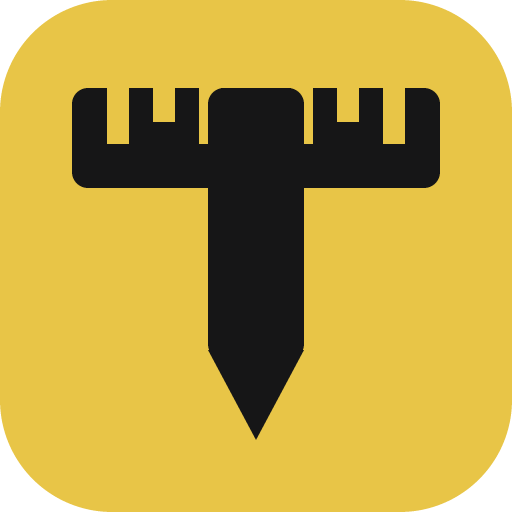
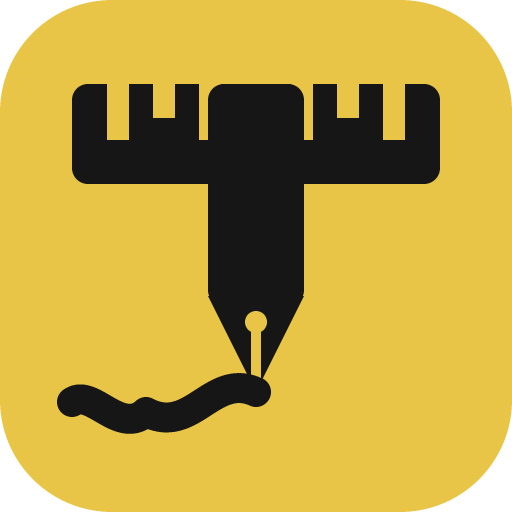
feat(brand): the ruler-T pen — the stem is a nib, a signature finishes at it
Replaces the pin: the T's stem is now a fountain pen, nib down, and a
signature stroke arrives from the left (the way a hand writes) and ends at
the tip — measure it, then sign the bid. The ruler crossbar stays.

- scripts/make-icons.py: the pen barrel, nib, slit + breather hole, and the
  signature (a cubic path rasterized as a round-capped stroke) from one
  definition. The nib detail is drawn only at 64 px and up: icon.svg and the
  192/512/180 icons carry it; favicon.svg, the ICO sizes and the header mark
  use the plain nib, where a slit would only thin the stem.
- index.html: the inline header mark is the plain-nib favicon.svg.
- sw.js: CACHE_VERSION v3 -> v4. docs/ARCHITECTURE updated.

diff --git a/index.html b/index.html
@@ -7,7 +7,7 @@
   <meta name="theme-color" content="#0f0f11">
   <!-- Installable, and able to survive a reload with no signal (sw.js) -->
   <link rel="manifest" href="manifest.webmanifest">
-  <!-- The mark (scripts/make-icons.py draws every file from one definition):
+  <!-- The mark, the ruler-T pen (scripts/make-icons.py draws every file from one definition):
        the ICO answers the browser's own /favicon.ico probe and serves Safari,
        the SVG serves everything else, and the 180 is the iOS home-screen tile. -->
   <link rel="icon" href="favicon.ico" sizes="32x32">
@@ -22,7 +22,7 @@
   <div id="app">
     <div id="twin-banner" class="twin-banner" role="status" hidden></div>
     <header>
-      <h1 id="app-title" class="app-title-clickable" title="Click to return to manifest"><svg class="app-mark" aria-hidden="true" xmlns="http://www.w3.org/2000/svg" viewBox="0 0 512 512"><rect width="512" height="512" rx="112" fill="#e8c547"/><rect x="72" y="88" width="368" height="100" rx="16" fill="#161617"/><rect x="107" y="88" width="22" height="56" fill="#e8c547"/><rect x="153" y="88" width="22" height="34" fill="#e8c547"/><rect x="199" y="88" width="22" height="56" fill="#e8c547"/><rect x="291" y="88" width="22" height="56" fill="#e8c547"/><rect x="337" y="88" width="22" height="34" fill="#e8c547"/><rect x="383" y="88" width="22" height="56" fill="#e8c547"/><rect x="208" y="88" width="96" height="272" rx="16" fill="#161617"/><path d="M208 350 H304 L256 440 Z" fill="#161617"/></svg><span>Takeoff Tooling</span></h1>
+      <h1 id="app-title" class="app-title-clickable" title="Click to return to manifest"><svg class="app-mark" aria-hidden="true" xmlns="http://www.w3.org/2000/svg" viewBox="0 0 512 512"><rect width="512" height="512" rx="112" fill="#e8c547"/><rect x="72" y="84" width="368" height="100" rx="16" fill="#161617"/><rect x="107" y="84" width="22" height="56" fill="#e8c547"/><rect x="153" y="84" width="22" height="34" fill="#e8c547"/><rect x="199" y="84" width="22" height="56" fill="#e8c547"/><rect x="291" y="84" width="22" height="56" fill="#e8c547"/><rect x="337" y="84" width="22" height="34" fill="#e8c547"/><rect x="383" y="84" width="22" height="56" fill="#e8c547"/><rect x="208" y="84" width="96" height="222" rx="16" fill="#161617"/><path d="M208 296 H304 L256 392 Z" fill="#161617"/><path d="M72 402 C92 388 120 436 146 412 C192 436 212 372 256 392" fill="none" stroke="#161617" stroke-width="30" stroke-linecap="round" stroke-linejoin="round"/></svg><span>Takeoff Tooling</span></h1>
       <div class="project-switch-wrap">
         <button type="button" id="project-switch-btn" class="project-switch-btn" aria-haspopup="true" aria-expanded="false" title="Switch project"><span class="project-switch-label"><span class="project-switch-title"><span id="project-switch-name">Untitled project</span><span id="project-switch-chip" class="project-chip" hidden></span></span><span id="project-switch-saved" class="project-switch-saved"></span></span><span class="project-switch-caret">&#9662;</span></button>
         <div id="project-menu" class="project-menu" aria-hidden="true"></div>

diff --git a/sw.js b/sw.js
@@ -26,7 +26,7 @@
  * returning visitors keep the old copy until their next network-first hit.
  */
 
-const CACHE_VERSION = 'v3';
+const CACHE_VERSION = 'v4';
 const SHELL_CACHE = `takeoff-shell-${CACHE_VERSION}`;
 const DATA_CACHE = `takeoff-data-${CACHE_VERSION}`;
 

diff --git a/scripts/make-icons.py b/scripts/make-icons.py
@@ -6,14 +6,20 @@ does. Re-run after changing the mark or the palette:
 
     python3 scripts/make-icons.py
 
-The mark is the "ruler-T pin": a T whose crossbar is a ruler (long/short
-inch ticks notched into its top edge) and whose stem ends in a pin point —
-measure, then mark the spot on the plan. Dark on the brand yellow tile,
-the same tile CountTooling's mark sits on, so the two read as siblings.
+The mark is the "ruler-T pen": a T whose crossbar is a ruler (long/short
+inch ticks notched into its top edge) and whose stem is a pen, nib down, with
+a signature stroke arriving from the left and finishing at the nib — measure
+it, then sign the bid. Dark on the brand yellow tile, the same tile
+CountTooling's mark sits on, so the two read as siblings.
+
+The nib's slit and breather hole are drawn only at 64 px and up (the app
+icons, the touch icon, icon.svg): below that they can't resolve and would
+only thin the stem, so the favicon sizes and favicon.svg carry the plain nib.
 
 Outputs (paths relative to the repo root):
-    icons/icon.svg              canonical vector (rounded tile, transparent corners)
-    icons/favicon.svg           the same, served as the SVG tab icon
+    icons/icon.svg              canonical vector, nib detail on (rounded tile)
+    icons/favicon.svg           the small-size vector, plain nib — the SVG tab icon
+                                and the source of index.html's inline header mark
     favicon.ico                 16/32/48 PNG-in-ICO (Safari + the browser's own
                                 /favicon.ico probe)
     icons/icon-192.png          rounded tile, transparent corners   (manifest "any")
@@ -27,6 +33,7 @@ the same numbers the SVG is written from, so the PNGs and the SVG can't drift.
 """
 import math
 import os
+import re
 import struct
 import zlib
 
@@ -38,16 +45,23 @@ ICONS = os.path.join(ROOT, 'icons')
 
 # --- the mark, in 512-unit canvas coordinates ------------------------------
 TILE_RX = 112
-BAR = (72, 88, 368, 100, 16)          # x, y, w, h, rx  — the ruler crossbar
-STEM = (208, 88, 96, 272, 16)         # x, y, w, h, rx  — the stem, down to the pin's shoulder
-PIN = ((208, 350), (304, 350), (256, 440))  # the point: shoulder-left, shoulder-right, tip
+BAR = (72, 84, 368, 100, 16)          # x, y, w, h, rx  — the ruler crossbar
 TICK_W = 22
 TICKS = ((118, 56), (164, 34), (210, 56), (302, 56), (348, 34), (394, 56))  # (x-center, depth) long/short
+STEM = (208, 84, 96, 222, 16)         # x, y, w, h, rx  — the pen barrel, down past the nib's shoulder
+NIB = ((208, 296), (304, 296), (256, 392))  # shoulder-left, shoulder-right, tip
+SLIT = ((256, 384), (256, 322), 10)   # the nib's slit: from near the tip up to the breather hole; width
+BREATHER = (256, 322, 11)             # cx, cy, r
+DETAIL_MIN_PX = 64                    # slit + breather only at this size and up
+# The signature: a cubic path ending exactly at the nib tip. Written left to
+# right the way a hand moves, so the pen sits at the end of the stroke.
+SIG = 'M72 402 C92 388 120 436 146 412 C192 436 212 372 256 392'
+SIG_W = 30
 
 
-def svg_text(bleed=False):
+def svg_text(bleed=False, detail=True):
     """The mark as SVG. bleed=True fills the whole square (maskable / apple-touch)."""
-    tile = (f'<rect width="512" height="512" fill="#e8c547"/>' if bleed
+    tile = ('<rect width="512" height="512" fill="#e8c547"/>' if bleed
             else f'<rect width="512" height="512" rx="{TILE_RX}" fill="#e8c547"/>')
     x, y, w, h, rx = BAR
     bar = f'<rect x="{x}" y="{y}" width="{w}" height="{h}" rx="{rx}" fill="#161617"/>'
@@ -55,10 +69,18 @@ def svg_text(bleed=False):
                     for cx, d in TICKS)
     x, y, w, h, rx = STEM
     stem = f'<rect x="{x}" y="{y}" width="{w}" height="{h}" rx="{rx}" fill="#161617"/>'
-    (ax, ay), (bx, by), (cx, cy) = PIN
-    pin = f'<path d="M{ax} {ay} H{bx} L{cx} {cy} Z" fill="#161617"/>'
+    (ax, ay), (bx, by), (cx, cy) = NIB
+    nib = f'<path d="M{ax} {ay} H{bx} L{cx} {cy} Z" fill="#161617"/>'
+    slit = ''
+    if detail:
+        (sx0, sy0), (sx1, sy1), sw = SLIT
+        hx, hy, hr = BREATHER
+        slit = (f'<line x1="{sx0}" y1="{sy0}" x2="{sx1}" y2="{sy1}" stroke="#e8c547" stroke-width="{sw}" stroke-linecap="round"/>'
+                f'<circle cx="{hx}" cy="{hy}" r="{hr}" fill="#e8c547"/>')
+    sig = (f'<path d="{SIG}" fill="none" stroke="#161617" stroke-width="{SIG_W}" '
+           f'stroke-linecap="round" stroke-linejoin="round"/>')
     return (f'<svg xmlns="http://www.w3.org/2000/svg" viewBox="0 0 512 512">'
-            f'{tile}{bar}{ticks}{stem}{pin}</svg>\n')
+            f'{tile}{bar}{ticks}{stem}{nib}{slit}{sig}</svg>\n')
 
 
 # --- rasterizer: per-row class intervals on a 4x supersampled grid ----------
@@ -82,11 +104,66 @@ def rrect_span(rect, yc):
 
 
 def tri_span(yc):
-    (ax, ay), (bx, by), (cx, cy) = PIN
+    (ax, ay), (bx, by), (cx, cy) = NIB
     if yc < ay or yc > cy:
         return None
     t = (yc - ay) / (cy - ay)
     return (ax + (cx - ax) * t, bx + (cx - bx) * t)
+
+
+def cubic_points(d, n=48):
+    """Sample an SVG path made of M + C segments into a dense polyline."""
+    tokens = re.sub(r'([MC])', r' \1 ', d.replace(',', ' ')).split()
+    pts, i, cur = [], 0, None
+    while i < len(tokens):
+        cmd = tokens[i]
+        if cmd == 'M':
+            cur = (float(tokens[i + 1]), float(tokens[i + 2]))
+            pts.append(cur)
+            i += 3
+        elif cmd == 'C':
+            p1 = (float(tokens[i + 1]), float(tokens[i + 2]))
+            p2 = (float(tokens[i + 3]), float(tokens[i + 4]))
+            p3 = (float(tokens[i + 5]), float(tokens[i + 6]))
+            p0 = cur
+            for k in range(1, n + 1):
+                t = k / n
+                u = 1 - t
+                pts.append((u * u * u * p0[0] + 3 * u * u * t * p1[0] + 3 * u * t * t * p2[0] + t * t * t * p3[0],
+                            u * u * u * p0[1] + 3 * u * u * t * p1[1] + 3 * u * t * t * p2[1] + t * t * t * p3[1]))
+            cur = p3
+            i += 7
+        else:
+            raise ValueError('unsupported path command ' + cmd)
+    return pts
+
+
+def stroke_discs(points, width, step=2.0):
+    """A round-capped stroke as a union of discs: densify the polyline so
+    consecutive discs overlap, then return [(cx, cy, r), ...]."""
+    r = width / 2
+    out = []
+    for (x0, y0), (x1, y1) in zip(points, points[1:]):
+        dist = math.hypot(x1 - x0, y1 - y0)
+        n = max(1, int(dist / step))
+        for k in range(n):
+            t = k / n
+            out.append((x0 + (x1 - x0) * t, y0 + (y1 - y0) * t, r))
+    x, y = points[-1]
+    out.append((x, y, r))
+    return out
+
+
+SIG_DISCS = stroke_discs(cubic_points(SIG), SIG_W)
+SLIT_DISCS = stroke_discs([SLIT[0], SLIT[1]], SLIT[2]) + [BREATHER]
+
+
+def disc_spans(discs, yc):
+    for cx, cy, r in discs:
+        dy = yc - cy
+        if -r < dy < r:
+            half = math.sqrt(r * r - dy * dy)
+            yield (cx - half, cx + half)
 
 
 def paint(row, span, k, value):
@@ -102,6 +179,7 @@ def render(size, bleed):
     """Return rows of (r, g, b, a) for a `size` px icon."""
     n = size * SS
     k = n / 512.0
+    detail = size >= DETAIL_MIN_PX
     # class per sample: 0 = outside the tile, 1 = yellow tile, 2 = dark ink
     sub_rows = []
     for sy in range(n):
@@ -112,12 +190,17 @@ def render(size, bleed):
         else:
             paint(row, rrect_span((0, 0, 512, 512, TILE_RX), yc), k, 1)
         paint(row, rrect_span(BAR, yc), k, 2)
-        bx, by, bw, bh, _ = BAR
+        by = BAR[1]
         for cx, d in TICKS:
             if by <= yc < by + d:
                 paint(row, (cx - TICK_W / 2, cx + TICK_W / 2), k, 1)
         paint(row, rrect_span(STEM, yc), k, 2)
         paint(row, tri_span(yc), k, 2)
+        if detail:
+            for span in disc_spans(SLIT_DISCS, yc):
+                paint(row, span, k, 1)
+        for span in disc_spans(SIG_DISCS, yc):
+            paint(row, span, k, 2)
         sub_rows.append(row)
 
     total = SS * SS
@@ -182,8 +265,8 @@ def write(rel, data):
 
 if __name__ == '__main__':
     os.makedirs(ICONS, exist_ok=True)
-    write('icons/icon.svg', svg_text().encode())
-    write('icons/favicon.svg', svg_text().encode())
+    write('icons/icon.svg', svg_text(detail=True).encode())
+    write('icons/favicon.svg', svg_text(detail=False).encode())
     write('icons/icon-192.png', png_bytes(render(192, bleed=False), opaque=False))
     write('icons/icon-512.png', png_bytes(render(512, bleed=False), opaque=False))
     write('icons/maskable-512.png', png_bytes(render(512, bleed=True), opaque=True))

diff --git a/docs/ARCHITECTURE.md b/docs/ARCHITECTURE.md
@@ -50,7 +50,7 @@ Three files sit outside that load order, at the repo root so GitHub Pages serves
 |---|---|
 | `sw.js` | App-shell service worker. Precaches `index.html`, `css/styles.css` and every same-origin `js/` file — **read out of index.html at install time**, not listed twice, so a new `<script>` tag needs no edit here. Navigations and shell assets are network-first with the cache as the offline fallback; the six `mc-assemblies/*.json` the app fetches are cache-first with a background refresh (12 MB together, so they land on first use rather than at install). Anything cross-origin (Supabase, jsDelivr/cdnjs, Google Fonts) is never intercepted and never cached |
 | `manifest.webmanifest` | Web app manifest — `short_name` "Takeoff", `start_url` ".", `display: standalone`, colours from the `css/styles.css` palette (`--bg` `#0f0f11`), icons from `icons/` |
-| `icons/` + `favicon.ico` | The mark: `icon.svg` / `favicon.svg`, the 192/512 tiles, `maskable-512.png`, `apple-touch-180.png`, and the root `favicon.ico`. All generated by `python3 scripts/make-icons.py` (pure stdlib, no Pillow) from one definition; the header's inline `.app-mark` is a copy of `icon.svg`. Re-run after changing the mark or the palette |
+| `icons/` + `favicon.ico` | The mark (the ruler-T pen: ruler crossbar, pen stem, a signature finishing at the nib): `icon.svg` (nib detail on) / `favicon.svg` (plain nib, for small sizes), the 192/512 tiles, `maskable-512.png`, `apple-touch-180.png`, and the root `favicon.ico`. All generated by `python3 scripts/make-icons.py` (pure stdlib, no Pillow) from one definition; the header's inline `.app-mark` is a copy of `favicon.svg`. Re-run after changing the mark or the palette |
 
 `js/app.js` registers the worker at the tail of init, guarded by `'serviceWorker' in navigator`, `location.protocol !== 'file:'` and `!navigator.webdriver` — see the quirk below.
 
